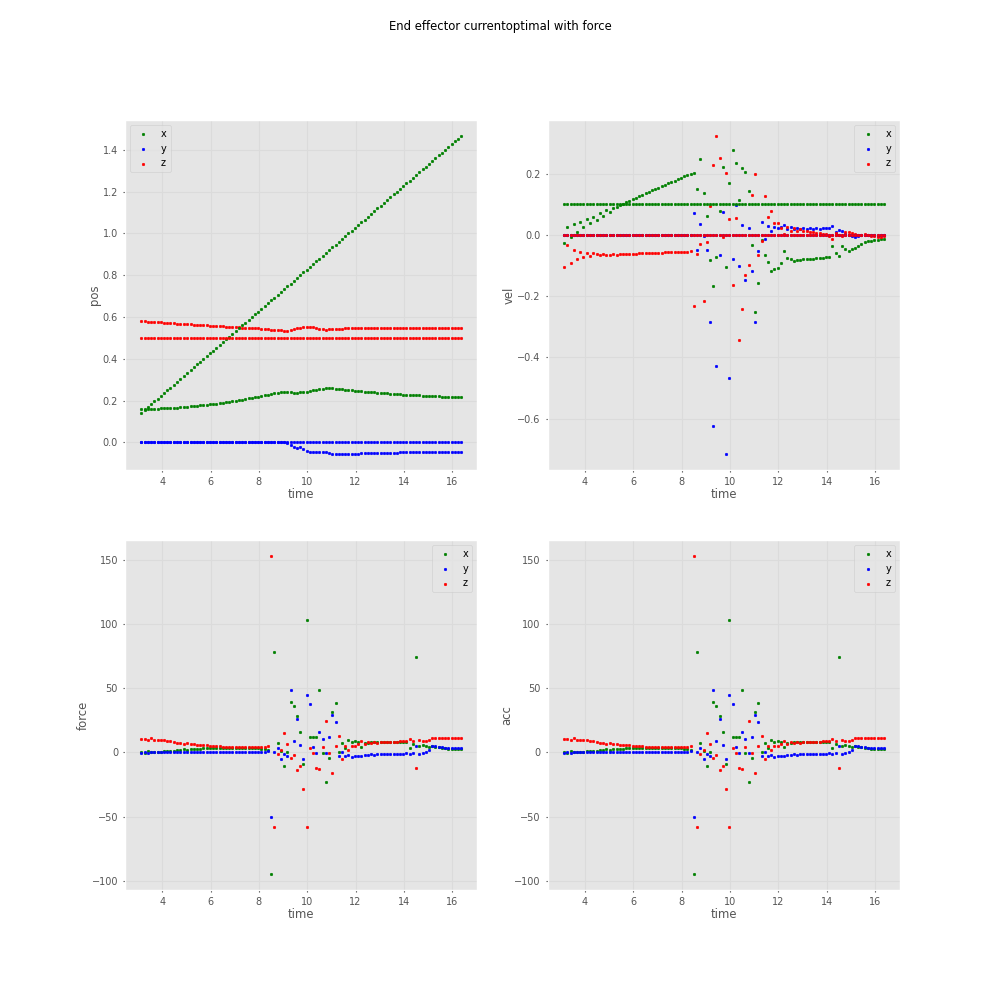
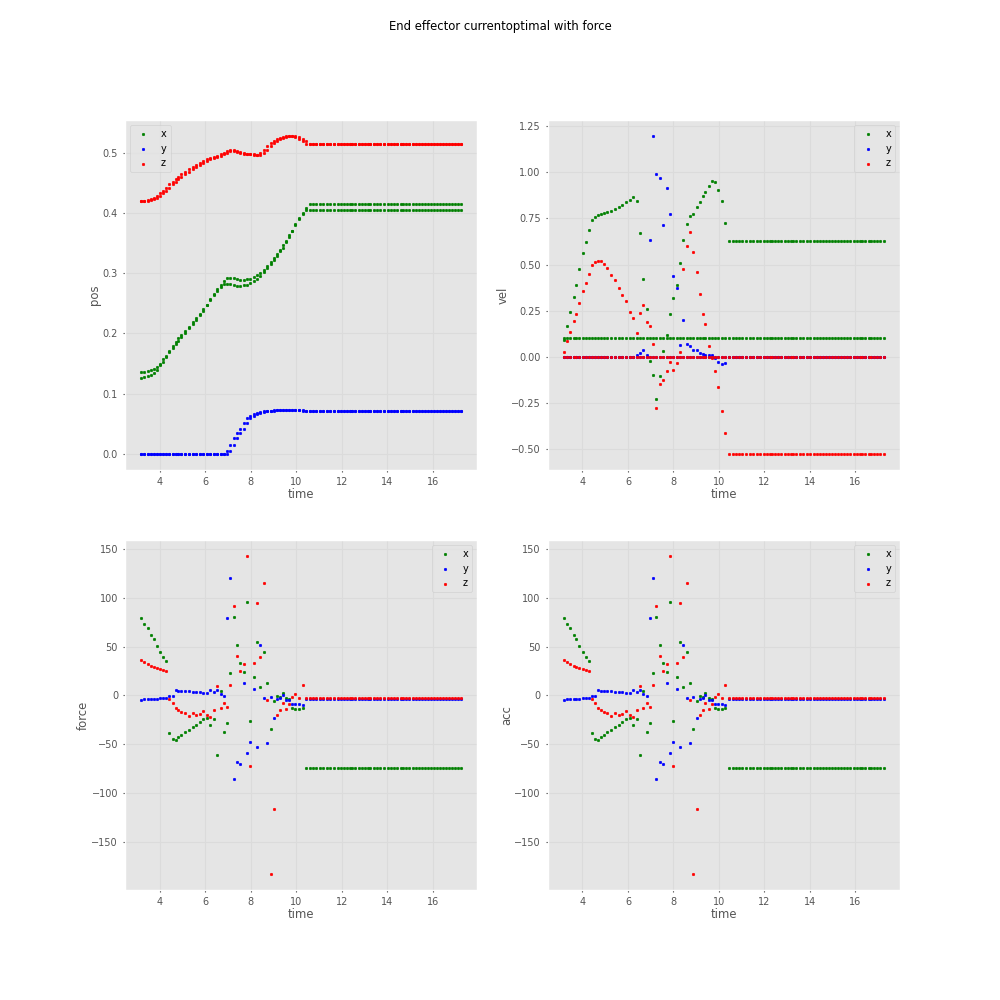
fixing one by one

diff --git a/mpc_controller.py b/mpc_controller.py
@@ -19,8 +19,8 @@ class MPC:
         time.sleep(1)
         print("Start controller")
         self.Ax, self.Bx, self.Af, self.Bf = np.eye(3), np.eye(3)*self.dt_opt, np.eye(3), np.eye(3)/self.dt_opt
-        self.P = np.eye(3)*1000
-        self.F = np.eye(3)*100
+        self.P = np.eye(3)*100
+        self.F = np.eye(3)*.1
         self.G = np.eye(3)*1
         self.P = self.P.T @ self.P
         self.G = self.G.T @self.G
@@ -50,16 +50,16 @@ class MPC:
         constr = []   
         x0 = robot.get_ee_position()
         v0 = robot.get_ee_vel()
-
+        print("wrench", wrench)
         for t in range(self.T_opt):
             cost += cp.quad_form(x[:, t + 1] -x_ref, self.P) + cp.quad_form(f[:, t + 1] -f_ref, self.F) + cp.quad_form(u[:, t] , self.G)
             constr += [x[:, t + 1] == np.dot(self.Ax, x0 )+ self.Bx @ (u[:, t])]
-            constr += [f[:, t + 1] == self.Bf @ (u[:, t])+ v0]
+            constr += [f[:, t + 1] == self.Bf @ (u[:, t]- v0)]
             constr += [u[:,t] <= np.ones(3)*(10)]
             constr += [u[:,t] >= np.ones(3)*(-10)]
         problem = cp.Problem(cp.Minimize(cost), constr)
-        print(x0)
-        print(target_pos)
+        # print(x0)
+        # print(target_pos)
         problem.solve()
         self.opt_u.append(u[:,0].value)
         self.opt_cost.append(problem.value)
@@ -105,7 +105,7 @@ class MPC:
         desired_ee_vel = np.asarray(desired_ee_vel)[0:3]
         curr_end_eff_position = robot.get_ee_position()
         robot_ee_pose = [.14,0,.5]
-        desired_ee_position = [.14,0,.5] + desired_ee_vel *(time.time()-start_time)
+        desired_ee_position = curr_end_eff_position + desired_ee_vel * self.dt_opt#*(time.time()-start_time)
         wrench = robot.get_ee_wrench()
         force = np.asarray(wrench[0:3])
         next_ee_vel[0:3] = self.get_optimal_vel(force, robot, desired_ee_position, desired_ee_vel)

diff --git a/robot.py b/robot.py
@@ -24,7 +24,7 @@ class RoboEnv(MuJoCoBase):
         self.robot_rtb = self.load_rtb_robot(urdf_path)
         self.reset_joints()
         self.j_vel_prev = np.zeros(7)
-        self.ee_max_reach = .6
+        self.ee_max_reach = .4
         
         print("---------all good loading robots------------")
 
@@ -65,7 +65,7 @@ class RoboEnv(MuJoCoBase):
         return robot
 
     def reset_joints(self):
-        angles = [0, -1.5, 0, 0, 0.0, 0, 0]
+        angles = [0, -np.pi/2, 0, 0, 0, np.pi/2, 0]
         for joint, ang in zip(self.joint_ids, angles):
             self.data.qpos[joint] = ang
         mujoco.mj_forward(self.model, self.data)
@@ -230,12 +230,12 @@ class RoboEnv(MuJoCoBase):
         glfw.poll_events()
 
     def run(self, control_input):
-        # if self.stop_robot == False:
-        self.data.ctrl[0:7] = control_input
-        mujoco.mj_step(self.model, self.data)
-        mujoco.mj_rnePostConstraint(self.model, self.data)
-        # else:
-        #     print("robot stopped")
+        if self.stop_robot == False:
+            self.data.ctrl[0:7] = control_input
+            mujoco.mj_step(self.model, self.data)
+            mujoco.mj_rnePostConstraint(self.model, self.data)
+        else:
+            print("robot stopped")
 
 
         self.curr_time = time.time() - self.start_time
